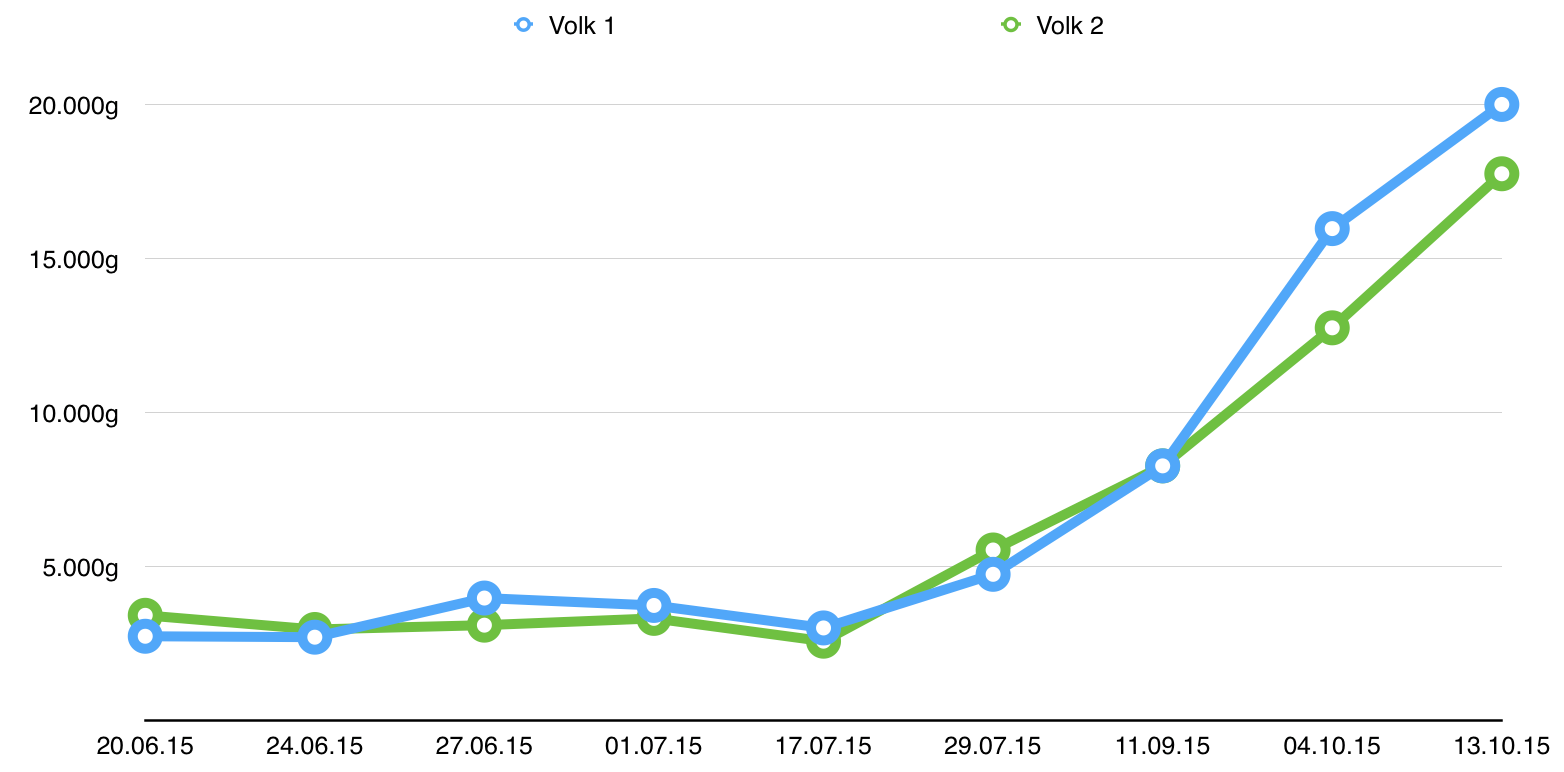
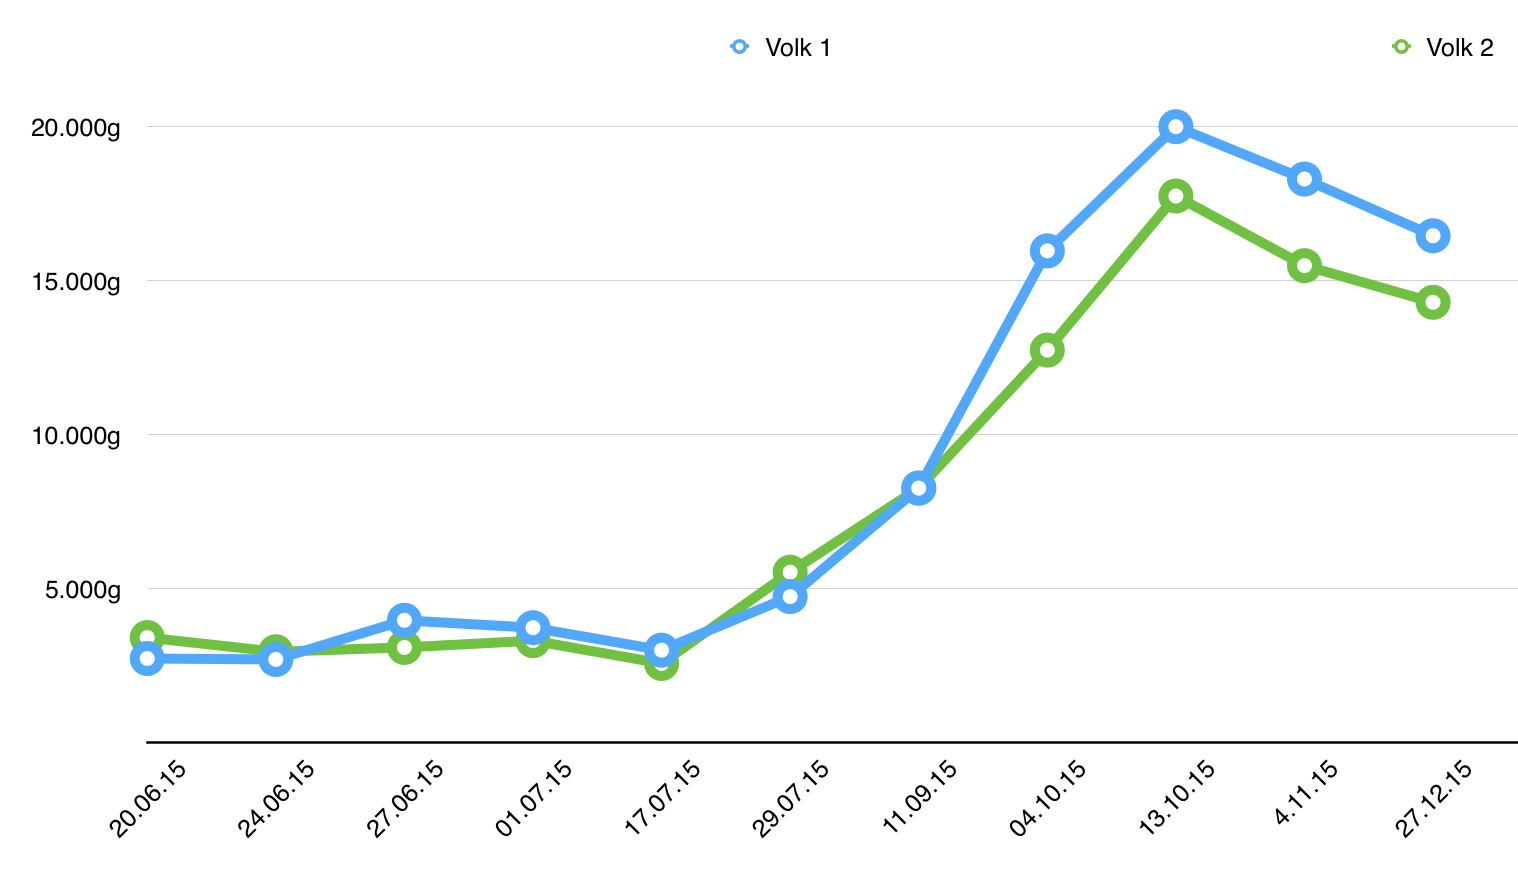
Aktualisierung der Gewichte

diff --git a/volksentwicklung/index.md b/volksentwicklung/index.md
@@ -20,5 +20,7 @@ nosocial: true
 | 11.09.2015 |  8.260 |  8.260 | Fütterung für den Winter gestartet |
 | 04.10.2015 | 15.960 | 12.740 | Die Bienen haben das Futter gut eingelagert. Volk 2 ist größer und verbraucht mehr. Ich hatte jeweils ca. 6kg Sirup gegeben.|
 | 13.10.2015 | 19.000 | 17.700 | Da ich mir nicht sicher war, wie viel ich noch für Bienen und Waben abziehen musste, habe ich noch einmal gefüttert. |
+| 04.11.2015 | 18.290 | 15.480 | |
+| 27.12.2015 | 16.450 | 14.290 | |
 {: class="table table-striped table-condensed table-responsive"}
 
